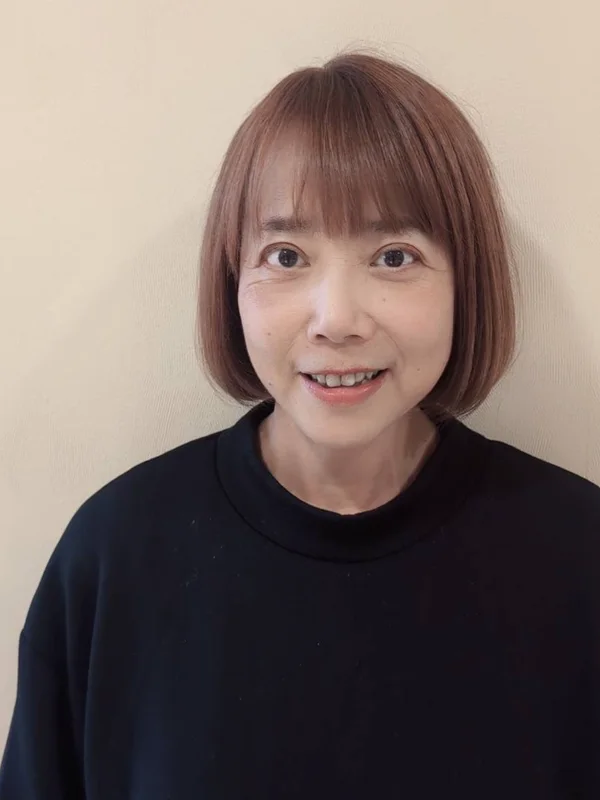
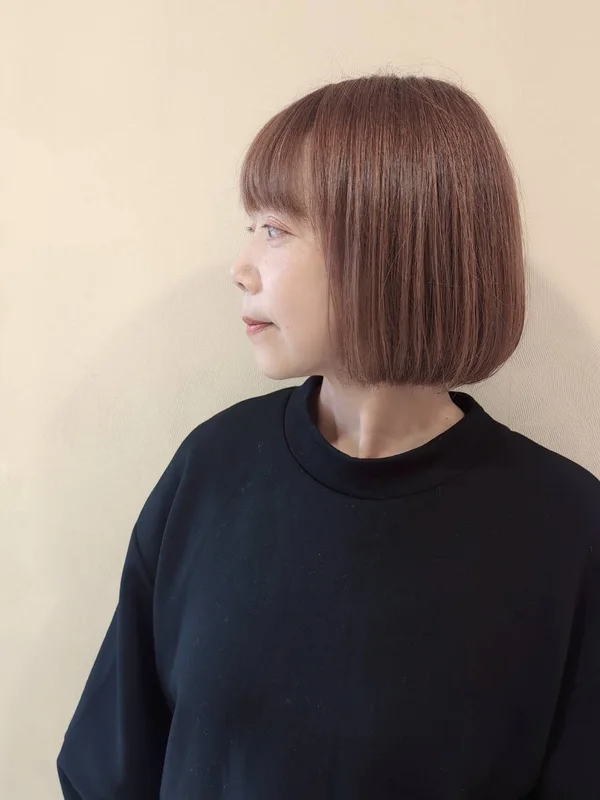
下書き：木場の写真を差し替え、得意技術（新日本髪・七五三・ロングハイレイヤー）を追加
Claude-Session: https://claude.ai/code/session_019tTSobMHMc6D5bD4xEiudv

diff --git a/index.html b/index.html
@@ -410,8 +410,8 @@ footer p{margin:0;letter-spacing:.06em}
       <article class="st-card">
         <div class="st-ph"><img src="img/staff/koba.webp" alt="木場 小百合" loading="lazy"></div>
         <p class="st-role">スタイリスト</p><h3>木場 小百合</h3>
-        <p class="st-k">得意な技術</p><ul class="st-tags"><li>白髪ぼかし</li><li>アップスタイル・ヘアセット</li><li>日本髪</li><li>カット・パーマ・カラー</li></ul>
-        <p class="st-owner"><span>オーナーより</span>カット・パーマ・カラーとオールマイティ。白髪ぼかしと、洋風・和風を問わずアップスタイル・ヘアセットはピカイチ。特に日本髪がきれいに仕上がります。</p>
+        <p class="st-k">得意な技術</p><ul class="st-tags"><li>白髪ぼかし</li><li>アップスタイル・ヘアセット</li><li>新日本髪</li><li>七五三のセット・アップ</li><li>ロングのハイレイヤーカット</li><li>カット・パーマ・カラー</li></ul>
+        <p class="st-owner"><span>オーナーより</span>カット・パーマ・カラーとオールマイティ。白髪ぼかしと、洋風・和風を問わずアップスタイル・ヘアセットはピカイチ。特に新日本髪がきれいに仕上がり、七五三のセット・アップも得意です。カットではロングのハイレイヤーが得意。毎日のお手入れがしやすいスタイルをご提案しています。ぜひご相談ください。</p>
         <p class="st-msg">（自己紹介・ひとことは準備中）</p>
       </article>
       <article class="st-card">
